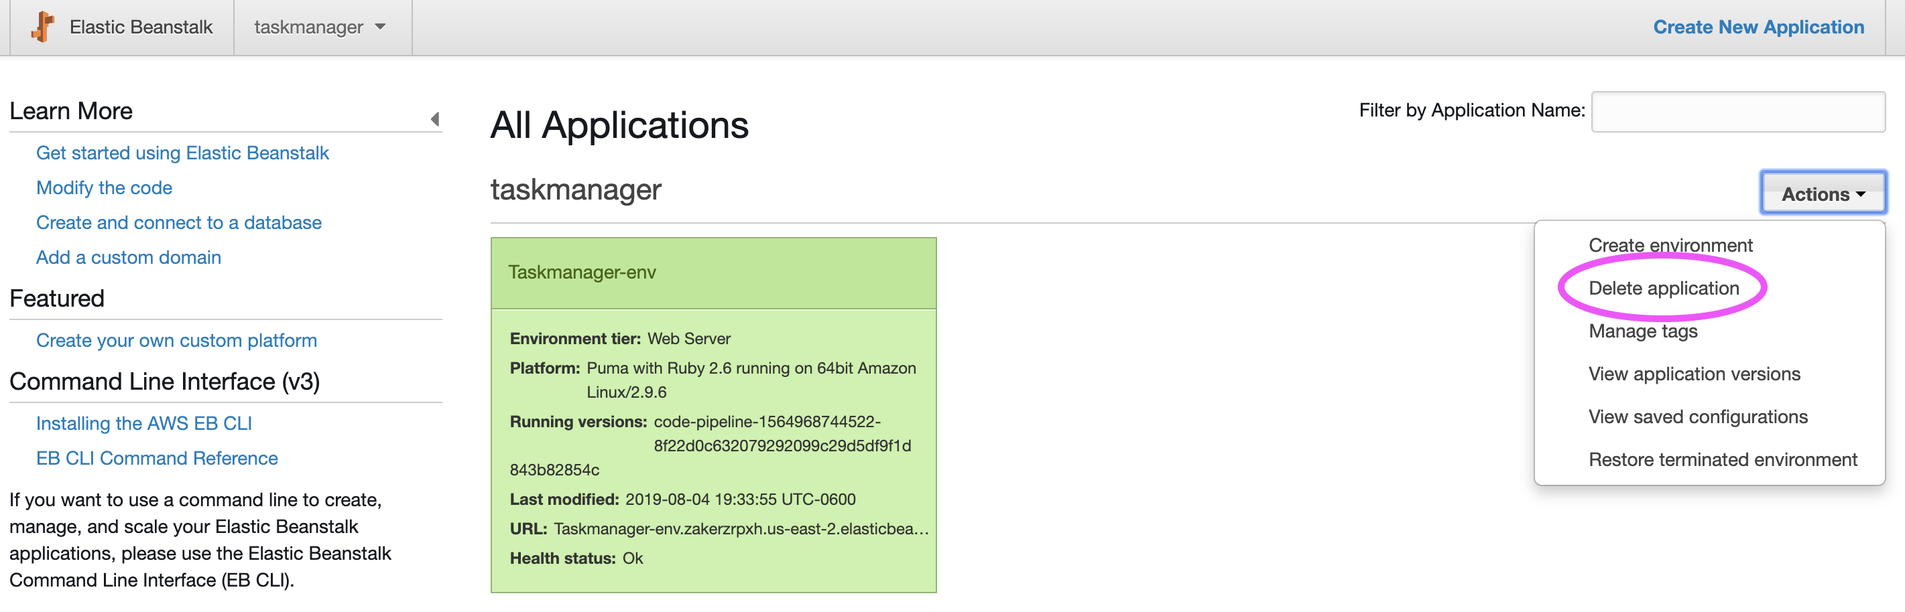
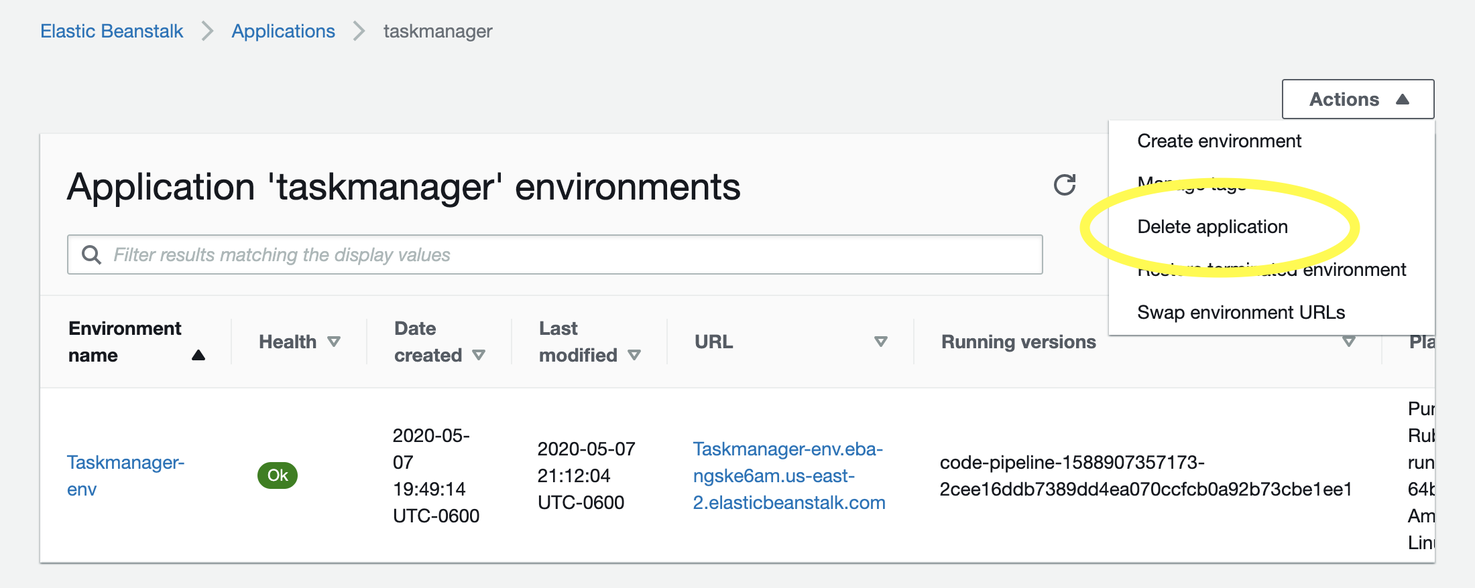
Updates curriculum

diff --git a/aws1/lessons/1.md b/aws1/lessons/1.md
@@ -29,17 +29,18 @@ session: 1
     <section>
       <img class="section-image" src="{{ site.url }}/assets/images/turing-logo-white.png" alt="Turing logo">
       <h2 class="section-header">Welcome!</h2>
-      <p>Open up the <a href="http://console.aws.amazon.com">AWS Mangement Console</a> and login to your AWS account using the admin user you created in the setup. <b>Do not log into your root account.</b></p>
+      <p>Open up the <a href="http://console.aws.amazon.com">AWS Mangement Console</a> and login to your AWS account using the admin user <b>(NOT ROOT USER)</b> you created in the setup.</p>
     </section>
     <hr>
     <section>
       <a name="intros"></a>
       <img class="section-image" src="{{ site.url }}/assets/images/introductions.svg" alt="Target image">
       <h2 class="section-header">Introductions</h2>
+      <p>Answer the following questions:</p>
       <ul>
-        <li>What do you want to be called, and what are your pronouns?</li>
-        <li>Do you have any experience with AWS? If so, what have you tried or built?</li>
-        <li>And for fun: What is your phone or laptop wallpaper?</li>
+        <li>What is your affiliation with Turing? Cohort, module, program</li>
+        <li>What do you know about AWS? It's 100% fine if the answer is "nothing!"</li>
+        <li>And for fun: What is your current phone or laptop wallpaper?</li>
       </ul>
     </section>
     <hr />
@@ -49,11 +50,12 @@ session: 1
       <h2 class="section-header">Logistics and Expectations</h2>
       <ol>
         <li>This course will explore foundational concepts for a variety of AWS services. Because we are cramming a lot of information into a small amount of time, we will not always have time to deeply explore all questions. Links to related concepts are embedded within the curriculum. <b>We strongly recommend being present during the instruction and postponing your link-exploration until after class.</b></li>
-        <li>There are many things we <i>won't</i> cover in this course. For example: IPv6 (mainly for IoT devices), HTTPS and DNS (because both involve extra costs), intricacies of SSH, etc. are topics that are beyond the scope of the exercises in this course. If you'd like more information when those terms arise in the context of the AWS services we cover, just ask and we'll be happy to pass along resources and/or documentation that you can use in your self-study. Use the <a target="blank" href="https://docs.google.com/document/d/1dyEaYh-OAaUiqfq7V1cxeeceQzGWbRIx_nHclqTISco/edit?usp=sharing">Parking Lot</a> to jot down questions you have that are not part of the course.</li>
+        <li>There are many things we <i>won't</i> cover in this course. For example: IPv6 (mainly for IoT devices), HTTPS and DNS (because both involve extra costs), intricacies of SSH, etc. are topics that are beyond the scope of the exercises in this course. If you'd like more information when those terms arise in the context of the AWS services we cover, just ask and we'll be happy to pass along resources and/or documentation that you can use in your self-study.</li>
+        <li>Use the chat box to jot down questions you have during the class.</li>
         <li>It's ok to be overwhelmed by the vastness of the AWS ecosystem and the fine-grain control that AWS gives you. When first starting out, stick with the defaults that AWS provides.</li>
-        <li>Play your part in creating a safe and welcoming learning environment for your classmates. A fundamentals class is not the right setting to tell everyone how smart you are. It makes others uncomfortable.</li>
+        <li>Play your part in creating a safe and welcoming learning environment for your classmates. A fundamentals class is not the right setting to show off.</li>
         <li>We will use code in this course, but coding is not the focus of the course. For the code samples we use, we'll do a high-level walk through before integrating AWS services.</li>
-        <li>This course is a hands-on approach to learning fundamental AWS services. The content of this course will provide a solid foundation for continuing to pursue either the Cloud Practitioner or Developer Associate AWS Certification Exam.</li>
+        <li>This course is a hands-on approach to learning fundamental AWS services. The content of this course will provide a solid foundation for continuing to pursue either the Cloud Practitioner, Solutions Architect Associate, or Developer Associate AWS Certification Exam.</li>
       </ol>
       <h4>Theory vs. Hands-On</h4>
       <p>During this course, we'll alternate between discussing theory/facts and actually diving in to see how things work. The theory and facts portions are relevant to the certification exams in addition to having the foundational knowledge to start building using AWS services.</p>
@@ -62,7 +64,7 @@ session: 1
         <h4>Together: Example</h4>
         <p>Instructions for example exercise.</p>
       </div>
-      <p>Teal boxes, like the one below, indicate an exercise that you'll try independently or with a partner.</p>
+      <p>Teal boxes, like the one below, indicate an exercise that you'll try either independently or with classmates in a breakout room.</p>
       <div class="try-it">
         <h4>Try It: Example</h4>
         <p>Instructions for example exercise.</p>
@@ -297,8 +299,7 @@ end</pre>
       <li><a target="blank" href="https://docs.aws.amazon.com/IAM/latest/UserGuide/reference_policies_examples_s3_rw-bucket.html" title="">S3 Policy Example</a></li>
       <li><a target="blank" href="https://docs.aws.amazon.com/amazondynamodb/latest/developerguide/using-identity-based-policies.html" title="">DynamoDB Policy Example (just focus on the first policy)</a></li>
     </ol>
-    <p><b>With a partner, discuss:</b> If we were to assign these policies to users, what would they be able to do? Does your interpretation match the description at the top of the page?</p>
-    <p>Done? Try using the <a target="blank" href="https://awspolicygen.s3.amazonaws.com/policygen.html" title="">Policy Generator</a> to create a policy that allows an IAM user to access all actions in Cloud9, AWS's online code editor.</p>
+    <p><b>With your breakout room, discuss:</b> If we were to assign these policies to users, what would they be able to do? Does your interpretation match the description at the top of the page?</p>
   </div>
   <br>
   <h4>Additional Resources</h4>
@@ -322,14 +323,14 @@ end</pre>
   <div class="try-it">
     <h4>Try It: Storage Classes</h4>
     <p>Open the <a target="blank" href="https://aws.amazon.com/s3/storage-classes/" title="">S3 Storage Classes</a> documentation from AWS.</p>
-    <p>With a partner, discuss: What are the main differences between Standard, Standard One Zone Infrequent Access, and Glacier? Use both the individual descriptions and the performance chart near the bottom.</p>
+    <p>With your breakout room, discuss: What are the main differences between Standard, Standard One Zone Infrequent Access, and Glacier? Use both the individual descriptions and the performance chart near the bottom.</p>
     <p>Done? Look at the specifications for remaining three storage classes.</p>
   </div>
   <p><a target="blank" href="https://aws.amazon.com/s3/pricing/" title="">Pricing</a> for S3 is based on both storage and bandwidth (data transfer). AWS provides a <a target="blank" href="https://calculator.s3.amazonaws.com/index.html" title="">calculator</a> for estimating your total monthly cost based on parameters you enter.</p>
   <h4>Structure</h4>
   <p>S3 is organized using <span class="vocab">buckets</span> (think of these like folders) and <span class="vocab">objects</span> (files and their related metadata). An account is limited to 100 buckets by default, but you may request more through Amazon. Individual objects within the buckets can be between 1 byte to 5 terabytes.</p>
   <p>Bucket names must be unique across <b>all</b> buckets in the S3 namespace and can contain lowercase letters, numbers, and hyphens.</p>
-  <p>Buckets can contain folders, but it's important to remember that a folder is just part of an object key name.</p>
+  <p>Buckets can contain what we might think of as "folders", but it's important to remember that a "folder" in S3 is simply part of an object key name.</p>
   <h4>Consistency Models</h4>
   <p>A consistency model explains what data will be accessible after specific events happen. S3 provides <span class="vocab">read-after-write consistency</span> for new PUT requests, and <span class="vocab">eventual consistency</span> for DELETE and PUT requests of existing objects.</p>
   <h4>Security</h4>
@@ -383,13 +384,17 @@ end</pre>
       <li>Save it, and refresh your page.</li>
     </ol>
   </div>
+  <div class="try-it">
+    <h4>Try It Bonus: Fetching image from another bucket</h4>
+    <p>Right now, you have a button "Add Image" that is non-functional. Open up the app.js file from the files you downloaded, and modify the code to fetch the image you uploaded from our earlier example. Don't forget to re-upload your new version of app.js to your website bucket.</p>
+  </div>
 </section>
 <hr />
 <section>
   <a name="cloudfront"></a>
   <img class="section-image" src="{{ site.url }}/assets/images/cloudfront.svg" alt="AWS CloudFront logo">
   <h2 class="section-header">CloudFront</h2>
-  <p><span class="vocab">CloudFront</span> is AWS's content delivery network that exists to decrease latency when serving content to your users. CloudFront combines caching of static content (such as images, CSS, JS, and images) at <a target="blank" href="">edge locations</a> with the accelerated speed and stability of the <a target="blank" href="https://aws.amazon.com/about-aws/global-infrastructure/global_network/">AWS's Global Network</a> (a private IP network) for dynamic content to improve performance and delivery for end users.</p>
+  <p><span class="vocab">CloudFront</span> is AWS's content delivery network that exists to decrease latency when serving content to your users. CloudFront combines caching of static content (such as images, CSS, JS, and images) at edge locations with the accelerated speed and stability of the <a target="blank" href="https://aws.amazon.com/about-aws/global-infrastructure/global_network/">AWS's Global Network</a> (a private IP network) for dynamic content to improve performance and delivery for end users.</p>
   <p>To contrast this with a more traditional approach: in the past, you would have your content stored in one location somewhere in the world. No matter where your users were located, they would have to request the content from that one server. Users located farther away from the server might experience longer delivery times.</p>
   <p>AWS <span class="vocab">Edge Locations</span>, or "Points of Presence," are a collection of almost 200 data centers throughout the world. Below is AWS's official map of Edge Locations:</p>
   <img src="{{site.url}}/assets/images/edge_location_map.png" alt="Map of AWS edge locations">

diff --git a/aws1/lessons/3_eb_rails.md b/aws1/lessons/3_eb_rails.md
@@ -17,16 +17,16 @@ session: 3
 			<h2 class="section-header">{{page.title}}</h2>
 			<p>In this workshop, you'll deploy a pre-built, database-backed Rails application using Elastic Beanstalk and CodePipeline.</p>
 			<p>Before you start, <b>make sure that you are in the N. Virginia region</b> since this is where you have created previous key pairs.</p>
-			<p>You'll want to download <a href="https://secondshifttaskmanager.s3.us-east-2.amazonaws.com/taskmanager.zip">this Rails app</a>. Unzip it and put it in a directory you want to work with on the command line. We're specifically not using git to share the code so that you can set it up with your own git repository later on, and this exercise will mimic the same steps you'll take for a brand new Rails project.</p>
+			<p>You'll want to download <a href="https://awscoursematerials.s3.us-east-2.amazonaws.com/taskmanager.zip">this Rails app</a>. Unzip it and put it in a directory you want to work with on the command line. We're specifically not using git to share the code so that you can set it up with your own git repository later on, and this exercise will mimic the same steps you'll take for a brand new Rails project.</p>
 			<p>A few quick notes about this Rails app:</p>
 			<ul>
-				<li>This app uses <code>ruby 2.6.4</code> and <code>rails 5.2.3</code>.</li>
+				<li>This app uses <code>ruby 2.6.6</code> and <code>rails 5.2.3</code>.</li>
 				<li>Because of Beanstalk's defaults, we are using <code>bundler 1.17.3</code>. There is <a target="blank" href="https://stackoverflow.com/questions/55360450/elastic-beanstalk-cant-find-gem-bundler-0-a-with-executable-bundle-gem">a way to use v2 of Bundler</a> with Elastic Beanstalk, but custom platform hooks are beyond the scope of this exercise. To bundle using this specific version of Bundler, you will need to type <code>bundle _1.17.3_</code> from your command line instead of <code>bundle</code>.</li>
-				<li>This app has one resource (tasks), and the functionality was built out with rails generate scaffold. The app does not have tests.</li>
+				<li>This app has one resource (tasks), and the functionality was built out with rails generate scaffold. The app does not have tests. Yolo.</li>
 			</ul>
 			<p><b>Although it's not necessary,</b> if you'd like to test out the app locally before you deploy to Elastic Beanstalk, you can do that with these commands:</p>
 			<ol>
-				<li>First, if you aren't already using ruby 2.6.4, install that version. With rbenv, first upgrade your rbenv packages with <code> brew upgrade rbenv ruby-build</code>, then install 2.6.4 with <code>rbenv install 2.6.4</code>, then set it locally with <code>rbenv local 2.6.4</code>.</li>
+				<li>First, if you aren't already using ruby 2.6.6, install that version. With rbenv, first upgrade your rbenv packages with <code> brew upgrade rbenv ruby-build</code>, then install 2.6.6 with <code>rbenv install 2.6.6</code>, then set it locally with <code>rbenv local 2.6.6</code>.</li>
 				<li><code>bundle _1.17.3_</code></li>
 				<li><code>rake db:create db:migrate</code></li>
 				<li><code>rails s</code></li>
@@ -77,16 +77,16 @@ session: 3
 			<p>For this exercise, we'll just create a development environment; however, it is possible to have many (ie. dev, prod).</p>
 			<ul>
 				<li>Open the Elastic Beanstalk console in a new tab. Keep your RDS dashboard open because we'll need to reference values from here later.</li>
-				<li>Click the blue <b>Get started</b> button.</li>
+				<li>Click the orange <b>Create Application</b> button.</li>
 				<li>For <b>application name</b>, type "taskmanager".</li>
-				<li>For <b>platform</b>, choose Ruby.</li>
+				<li>For <b>platform</b>, choose Ruby, and for <b>platform branch</b>, choose "Puma with Ruby 2.6 running on 64bit Amazon Linux"</li>
 				<li>For <b>Application Code</b>, keep "Sample application" selected. We won't use the sample app, but we also don't want to upload our code through a zip file or S3. Eventually, we'll set up a pipeline to push our code from Github to EB, but that comes later.</li>
 				<li>Don't click the blue button! Instead, click the grey <b>Configure more options</b> button. This is what your screen should look like:</li>
 				<img style="width: 80%" src="{{ site.url }}/assets/images/createapp.png" alt="EB create app screenshot">
 			</ul>
 			<p>This configuration dashboard shows you what Elastic Beanstalk is about to be setup for you. You can customize anything that needs to be added or changed. For now, we'll do the following:</p>
 			<ul>
-				<li>Under the <b>Software</b> box, click "Modify".</li>
+				<li>Under the <b>Software</b> box, click "Edit".</li>
 				<img class="screenshot" src="{{ site.url }}/assets/images/ebconfiguresoftware.png" alt="Screen shot for modifying software config">
 				<li>Scroll to the bottom where you'll see inputs for <b>Environment properties</b>. In here, you'll need to add six keys, five of which are the database environment variables we referenced in our <code>database.yml</code> file earlier plus one more variable:</li> 
 				<ul>
@@ -131,7 +131,7 @@ session: 3
 				<li>Click the <b>Edit</b> button.</li>
 				<li>Delete the current source (which is your computer's IP address), and start typing "sg". You should see all of your security groups pop up. Select the one that has "awseb" in its name -- this is the security group that AWS Elastic Beanstalk made for us, which is the one that our EC2 instance will be in. We want to accept PG traffic from that instance, so we'll reference its security group.</li>
 				<img src="{{ site.url }}/assets/images/ebsg.png" alt="Screenshot selecting correct security group">
-				<li>Click the blue <b>Save</b> button.</li>
+				<li>Click the orange <b>Save rules</b> button.</li>
 			</ul>
 		</section>
 		<hr />
@@ -182,23 +182,27 @@ session: 3
     	<p>In the CodePipeline landing page, select your pipeline, then click "Delete Pipeline". Confirm the deletion.</p>
 			<img src="{{ site.url }}/assets/images/deletecp.png" alt="Screen shot for deleting code pipeline">
       <h4>EC2</h4>
-      <p>In your EC2 panel, click on Security Groups. Find the security group for your RDS database. It should be called "rds-taskmanager". Delete the inbound rule that links it to the Beanstalk security group by clicking the "X" so it has no rules, then click save.</p>
+      <p>In your EC2 panel, click on Security Groups. Find the security group for your RDS database. It should be called "rds-taskmanager". Click on "Edit inbound rules", then delete the inbound rule that links it to the Beanstalk security group, then click "Save rules".</p>
 			<img src="{{ site.url }}/assets/images/deletesourcesg.png" alt="Screen shot for deleting RDS security group source">
       <h4>Elastic Beanstalk</h4>
     	<p>Go to your Elastic Beanstalk dashboard and select "Delete application" from the "Actions" dropdown. This will take a while.</p>
 			<img src="{{ site.url }}/assets/images/deleteeb.png" alt="Screen shot for deleting Elastic Beanstalk application">
       <h4>RDS</h4>
-    	<p>Go to your RDS dashboard and click on "Databases" on the left-hand side. Select your taskmanager database, then choose "Delete" from the "Actions" dropdown.</p>
+    	<p>Go to your RDS dashboard and click on "Databases" on the left-hand side. Select your taskmanager database, then choose "Delete" from the "Actions" dropdown. Uncheck "Create final snapshot?" since you don't need one (and they cost money!)</p>
 			<img src="{{ site.url }}/assets/images/deleterds.png" alt="Screen shot for deleting RDS database">
     	<p>Click on "Snapshots" on the left-hand side and delete any snapshots. It is possible that you may not have any snapshots.</p>
 			<img src="{{ site.url }}/assets/images/deleterdssnap.png" alt="Screen shot for deleting RDS snapshots">
       <h4>Back to EC2 for Security Groups</h4>
       <p>Now that your RDS database is gone, you can remove your RDS security group. Click on "Security Groups" from the left-hand side, select the "rds-taskmanager" group, and select "Delete Security Group" from the "Actions" dropdown.</p>
+			<p>If you get an error about a network interface, just wait a moment, as that means your Elastic Beanstalk application has not finished being deleted.</p>
 			<img style="width: 80%" src="{{ site.url }}/assets/images/deletesg.png" alt="Screen shot for deleting RDS security group">
 			<h4>S3 Artifacts</h4>
 			<p>CodePipeline and Elastic Beanstalk both create S3 buckets to store artifacts related to your application versions.</p>
-			<p>In the S3 dashboard, select the CodePipeline bucket and delete it.</p>
-			<p>Next, click into the Elastic Beanstalk bucket. This bucket has a bucket policy that prevents it from being deleted. Find the bucket policy under the Permissions tab. Delete the bucket policy. Then go back out to the dashboard and delete the bucket.</p>
+			<p>In the S3 dashboard, select the CodePipeline bucket and delete it. You'll need to click the "empty bucket configuration" link in order for AWS to allow you to do this. Then, go back to the dashboard, select the same bucket, and you should be able to delete it this time.</p>
+			<img style="width: 80%" src="{{ site.url }}/assets/images/emptyartifacts.png" alt="Screen shot for deleting RDS security group">
+			<p>Next, click into the Elastic Beanstalk bucket. This one has a bucket policy attached to it that does not allow you to delete it. So first, we'll need to delete that bucket policy (see below):</p>
+			<img style="width: 80%" src="{{ site.url }}/assets/images/bucketpolicydelete.png" alt="Screen shot for deleting RDS security group">
+			<p>Then, repeat the same steps that you did above with the CodePipeline bucket.</p>
     </section>
     <hr />
 	</div>

diff --git a/aws1/lessons/2.md b/aws1/lessons/2.md
@@ -35,10 +35,8 @@ session: 2
       <h2 class="section-header">Logistics and Expectations</h2>
       <ol>
         <li>This session will give us the foundational knowledge on EC2 instances, VPCs, subnets, security groups, and SSH that we will need in order to deploy a full application using Elastic Beanstalk in the Session 3.</li>
-        <li>In this session, we will create a few EC2 instances and set them up </li>
+        <li>In this session, we will create a few EC2 instances and set them up to be served behind a load balancer.</li>
         <li>Because we are cramming a lot of information into a small amount of time, we will not always have time to deeply explore all questions. Links to related concepts are embedded within the curriculum. <b>We strongly recommend being present during the instruction and postponing your link-exploration of the "Additional Resources" sections until after class.</b></li>
-        <li>If you'd like more information when those terms arise in the context of the AWS services we cover, just ask and we'll be happy to pass along resources and/or documentation that you can use in your self-study. Use the <a target="blank" href="https://docs.google.com/document/d/1dyEaYh-OAaUiqfq7V1cxeeceQzGWbRIx_nHclqTISco/edit?usp=sharing">Parking Lot</a> to jot down questions you have that are not part of the course.</li>
-        <li>Play your part in creating a safe and welcoming learning environment for your classmates. A fundamentals class is not the right setting to tell everyone how smart you are. It makes others uncomfortable.</li>
       </ol>
     </section>
     <hr>
@@ -67,7 +65,7 @@ session: 2
       <h4>EC2 Instance Types</h4>
       <p>Once you've selected your machine image, you'll be asked to choose an <span class="vocab">instance type</span>. Different instance types provide different combinations of CPU, memory, storage, and networking capacity. You can see how instance types are optimized for specific purposes on the <a target="blank" href="https://aws.amazon.com/ec2/instance-types/">EC2 Instance Types documentation page</a> or the <a target="blank" href="https://ec2instances.info/">ec2instances.info</a> site. Luckily for us, there is only instance type that is available under free tier, so we don't need to dive in to the specifics of what each instance type can do for now. &#128517;</p>
       <h4>EC2 Storage</h4>
-      <p>In addition to a root volume (which contains the imaged used to boot the machine), you can optionally attach additional storage volumes to your EC2 instance. We will not do this today, but you might choose to do this if you need a file system for your EC2 instance, or you want a database for your EC2 instance to interact with.</p>
+      <p>In addition to a root volume (which contains the image used to boot the machine), you can optionally attach additional storage volumes to your EC2 instance. We will not do this today, but you might choose to do this if you need a file system for your EC2 instance, or you want a database for your EC2 instance to interact with.</p>
       <div class="together">
         <h4>Together: Creating an EC2 Instance</h4>
         <p>Throughout this session, we'll be building up to creating a simple web server that can serve up a web page. The server will be hosted on an EC2 instance.</p>
@@ -111,7 +109,7 @@ session: 2
       </div>
       <div class="try-it">
         <h4>Try It: Network Diagram </h4>
-        <p>Right now, your diagram should look something like the one below from <a target="blank" href="https://docs.aws.amazon.com/vpc/latest/userguide/what-is-amazon-vpc.html">AWS's VPC Documentation</a>. Take a few minutes to talk through some of the network components that you see in the diagram below, explaining what you know about their purpose or function. Remember, it's not important to fully understand how this all works. Instead, use the visual to help you build a mental model for how to organize the vocabulary words from above.</p>
+        <p>Right now, your diagram should look something like the one below from <a target="blank" href="https://docs.aws.amazon.com/vpc/latest/userguide/what-is-amazon-vpc.html">AWS's VPC Documentation</a>. In your breakout rooms, talk through each of the network components that you see in the diagram below, explaining what you know about their purpose or function. Remember, it's not important to fully understand how this all works. Instead, use the visual to help you build a mental model for how to organize the vocabulary words from above.</p>
         <img style="width: 75%; margin: 0 auto; display:block;" src="{{ site.url }}/assets/images/vpc-diagram.png" alt="Construction cone">
       </div>
       <br>  
@@ -157,7 +155,7 @@ session: 2
           <li>Back in your EC2 console, copy the public IP address of your EC2 instance.</li>
           <li>In your terminal, type <code>ssh -i &lt;nameofkeypair.pem&gt; ec2-user@&lt;publicIPaddress&gt;</code>. <br> For example: <code>ssh -i MyKeyPair.pem ec2-user@18.216.158.31</code></li>
           <li>We'll upgrade our privileges to root user with <code>sudo su</code>.</li>
-          <li>Once you're logged in, type <code>yum update</code> which will use the yum, a package manager for Linux, to update any currently installed packages that you got from the AMI.</li>
+          <li>Once you're logged in, type <code>sudo yum update</code> which will use the yum, a package manager for Linux, to update any currently installed packages that you got from the AMI.</li>
         </ol>
       </div>
       <h4>Additional Resources</h4>
@@ -177,6 +175,7 @@ session: 2
       <div class="together">
         <h4>Together: Install Apache</h4>
         <ul>
+          <li>If you didn't do this already, upgrade your privileges by typing <code>sudo su</code></li>
           <li>Install Apache with <code>yum -y install httpd</code></li>
           <li>Start Apache with <code>service httpd start</code></li>
           <li>Configure the server to start with each reboot: <code>chkconfig httpd on</code></li>

diff --git a/aws1/lessons/3.md b/aws1/lessons/3.md
@@ -26,6 +26,7 @@ session: 3
       <h2 class="section-header">This Session's Setup</h2>
       <p>Open up the <a href="http://console.aws.amazon.com">AWS Mangement Console</a> and login to your AWS account using the admin user you created in the setup. <b>Do not log into your root account.</b></p>
       <p>At the top of your Management Console next to your username, you'll see "Ohio" listed as your region. Go ahead and change that to US East (N. Virginia).</p>
+      <p><b>Super important!</b> In this section, we'll be using either Rails or Node to deploy an app to Elastic Beanstalk. Change your display name to reflect which framework you prefer. ie - Rachel W, Rails (she/her)</b></p>
     </section>
     <hr>
     <section>
@@ -42,7 +43,7 @@ session: 3
     <section>
       <img class="section-image" src="{{ site.url }}/assets/images/review.svg" alt="Review sticky note">
       <h2 class="section-header">Review</h2>
-      <p>With the person next to you, walk through this diagram from Session 2. You can disregard the Network ACLs, Virtual Private Gateway, and any IPv6 CIDR blocks.</p>
+      <p>With your breakout group, walk through this diagram from Session 2. You can disregard the Network ACLs, Virtual Private Gateway, and any IPv6 CIDR blocks.</p>
       <img style="width: 55%;" src="{{ site.url }}/assets/images/security-diagram.png" alt="AWS diagram to show VPCs and security groups">
     </section>
     <hr>
@@ -65,7 +66,7 @@ session: 3
       <p>In Session 2, we set up an Apache server on an EC2 instance that served a static website. Before we dive into Elastic Beanstalk, let's brainstorm what else we would need to configure on that EC2 instance to serve up either a Rails app or an Express app.</p>
       <div class="try-it">
         <h4>Try It: Brainstorming Configuration for a Web App</h4>
-        <p>With 1-2 people around you, brainstorm what you would need to configure in order to set up a full web application with the framework of your choice.</p>
+        <p>With your breakout room, brainstorm what you would need to configure in order to set up a full web application with the framework of your choice.</p>
         <p>It might help to think of what you would need to do from the moment you are picking out a new computer to the point where you're able to serve up your web application in development.</p>
         <p>Some things are pretty obvious, but don't forget about things like logging, where to pull the source code from, env variables, how to store data, etc.</p>
       </div>
